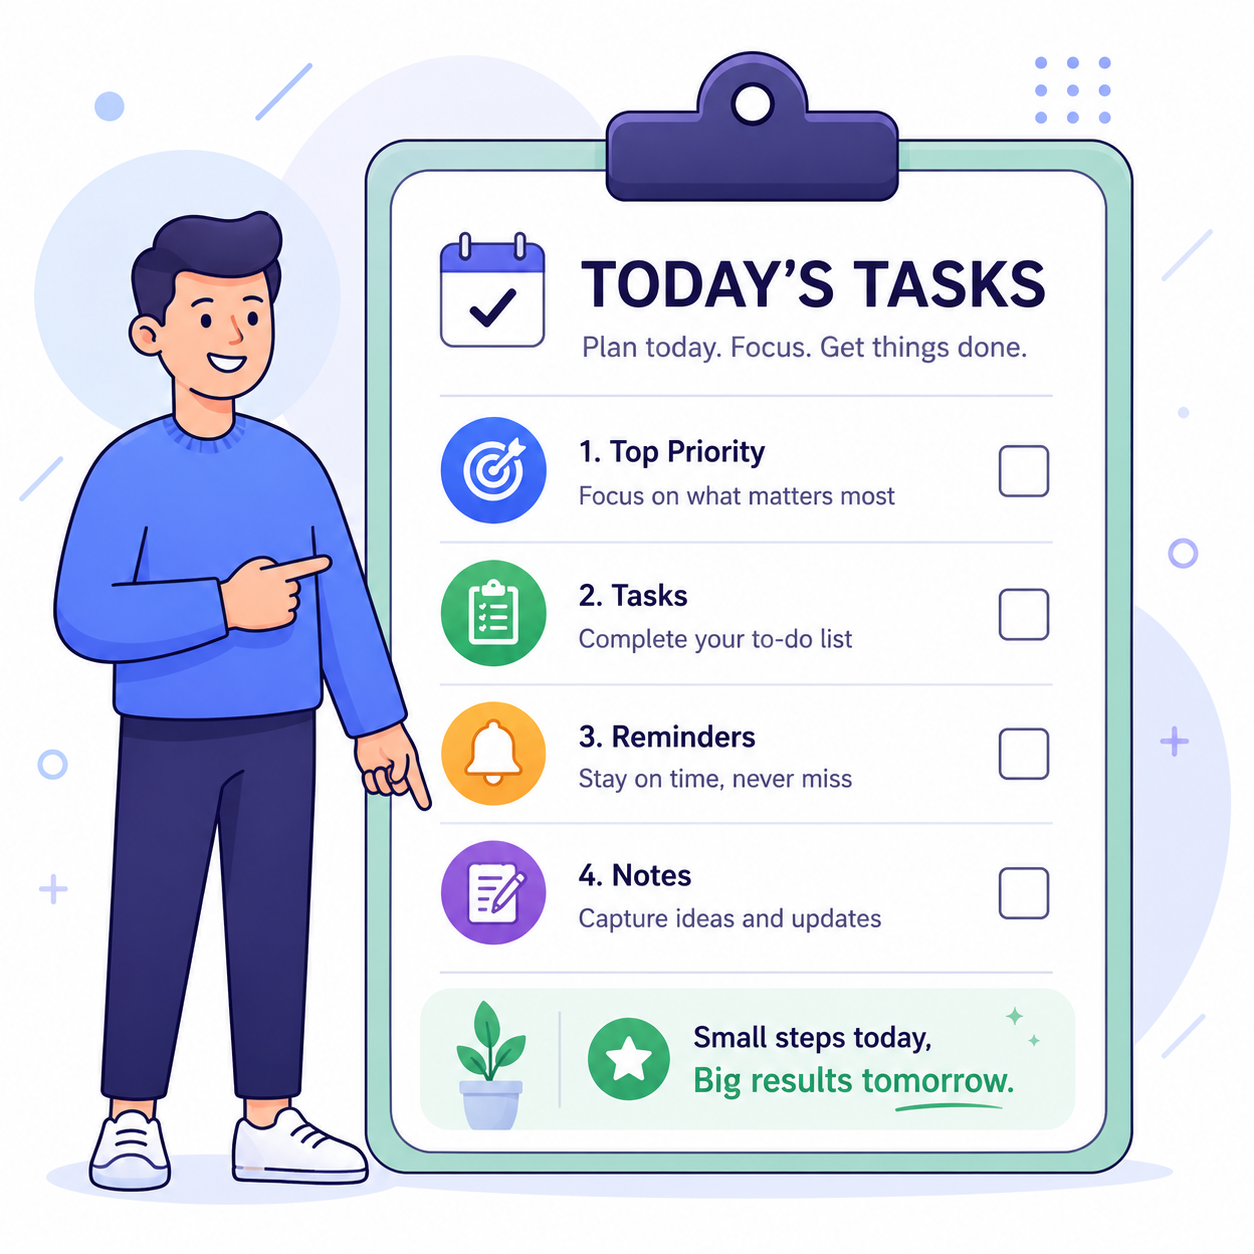
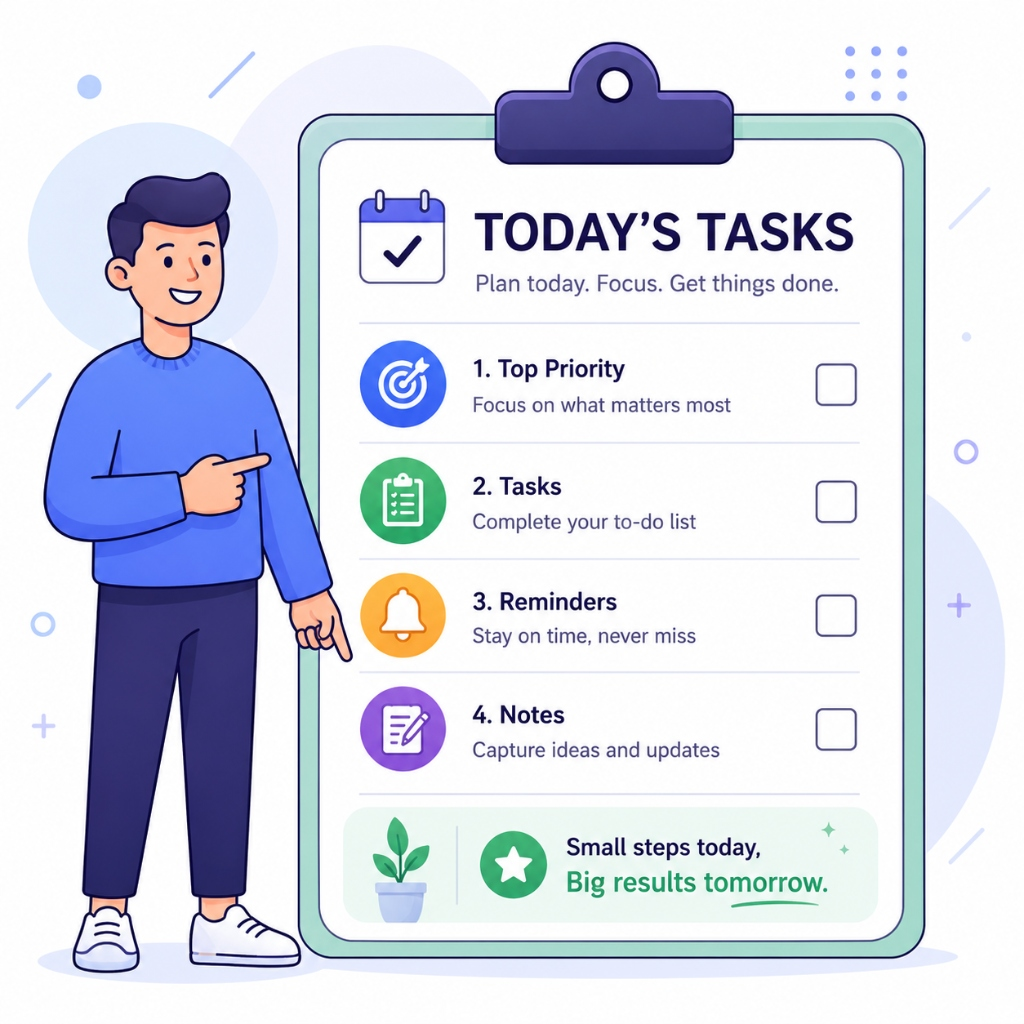
updated home screen hero size that looking better ui

Changed region(s): [[0.375, 0.3438, 0.4062, 0.4062]]

diff --git a/src/services/storage.js b/src/services/storage.js
@@ -24,194 +24,10 @@ const HABITS_KEY = '@daybook_habits';
 const DIARY_KEY = '@daybook_diary';
 const USER_KEY = '@daybook_user';
 
-export const initialTasks = [
-  {
-    id: 't1',
-    title: 'Complete UI Design',
-    category: 'Work',
-    priority: 'High',
-    time: '10:00 AM',
-    notes: 'Finish high-fidelity dark & light mode screens for Daybook app.',
-    completed: false,
-    date: getTodayStr(),
-  },
-  {
-    id: 't2',
-    title: 'Client Meeting at 11 AM',
-    category: 'Work',
-    priority: 'Medium',
-    time: '11:00 AM',
-    notes: 'Discuss project milestones and deliverables.',
-    completed: false,
-    date: getTodayStr(),
-  },
-  {
-    id: 't3',
-    title: 'Finish GST Filing',
-    category: 'Finance',
-    priority: 'High',
-    time: '02:00 PM',
-    notes: 'Verify invoices before submission.',
-    completed: false,
-    date: getTodayStr(),
-  },
-  {
-    id: 't4',
-    title: 'Pay Electricity Bill',
-    category: 'Finance',
-    priority: 'High',
-    time: '05:00 PM',
-    notes: 'Due date is today.',
-    completed: false,
-    date: getTodayStr(),
-  },
-  {
-    id: 't5',
-    title: 'Drink Water',
-    category: 'Health',
-    priority: 'Low',
-    time: '07:00 AM',
-    notes: 'Daily habit goal: 3 liters',
-    completed: true,
-    date: getTodayStr(),
-  },
-  {
-    id: 't6',
-    title: 'Gym Workout',
-    category: 'Health',
-    priority: 'Low',
-    time: '06:00 PM',
-    notes: 'Leg day routine & 20 min cardio',
-    completed: true,
-    date: getTodayStr(),
-  },
-  {
-    id: 't7',
-    title: 'Read Book',
-    category: 'Personal',
-    priority: 'Low',
-    time: '08:00 PM',
-    notes: 'Atomic Habits - Chapter 4',
-    completed: true,
-    date: getTodayStr(),
-  },
-];
-
-export const initialReminders = [
-  {
-    id: 'r1',
-    title: 'Doctor Appointment',
-    importance: 'Regular health checkup and routine blood work.',
-    notes: "Don't forget to bring previous medical reports.",
-    date: getTodayStr(),
-    time: '10:00 AM',
-    alarmTone: 'Default',
-    repeat: 'Does not repeat',
-    priority: 'High',
-    notification: true,
-    category: 'Health',
-  },
-  {
-    id: 'r2',
-    title: 'Finish Project Report',
-    importance: 'End of month client presentation.',
-    notes: 'Include Q3 productivity metrics and budget forecasting.',
-    date: getTodayStr(),
-    time: '04:00 PM',
-    alarmTone: 'Chime',
-    repeat: 'Weekly',
-    priority: 'High',
-    notification: true,
-    category: 'Work',
-  },
-  {
-    id: 'r3',
-    title: 'Birthday - Rahul',
-    importance: " Rahul's 25th Birthday Celebration!",
-    notes: 'Buy gift card and call at 12 AM.',
-    date: getTodayStr(),
-    time: '12:00 AM',
-    alarmTone: 'Gentle',
-    repeat: 'Yearly',
-    priority: 'Critical',
-    notification: true,
-    category: 'Personal',
-  },
-];
-
-export const initialHabits = [
-  {
-    id: 'h1',
-    title: 'Drink Water',
-    frequency: 'Daily',
-    progress: 100,
-    streak: 12,
-    completedToday: true,
-    autoAddToday: true,
-    icon: 'droplet',
-  },
-  {
-    id: 'h2',
-    title: 'Gym Workout',
-    frequency: '5 Times a Week',
-    progress: 70,
-    streak: 8,
-    completedToday: true,
-    autoAddToday: true,
-    icon: 'dumbbell',
-  },
-  {
-    id: 'h3',
-    title: 'Reading',
-    frequency: 'Daily',
-    progress: 80,
-    streak: 15,
-    completedToday: false,
-    autoAddToday: true,
-    icon: 'book',
-  },
-  {
-    id: 'h4',
-    title: 'Meditation',
-    frequency: 'Daily',
-    progress: 60,
-    streak: 5,
-    completedToday: false,
-    autoAddToday: true,
-    icon: 'sparkles',
-  },
-  {
-    id: 'h5',
-    title: 'No Sugar',
-    frequency: 'Daily',
-    progress: 40,
-    streak: 3,
-    completedToday: false,
-    autoAddToday: false,
-    icon: 'ban',
-  },
-];
-
-export const initialDiaryEntries = [
-  {
-    id: 'd1',
-    date: getTodayStr(),
-    formattedDate: getTodayFormatted(),
-    title: 'Productive Day & Milestone Reached',
-    mood: 'happy',
-    content:
-      'Today was a super productive day! Completed all key project design tasks on time. Went for a morning jog which gave me extra energy throughout the day. Grateful for good health and family support.',
-  },
-  {
-    id: 'd2',
-    date: getTodayStr(),
-    formattedDate: getTodayFormatted(),
-    title: 'Planning and System Architecture',
-    mood: 'calm',
-    content:
-      'Spent time organizing goals for the next month. Started reading Atomic Habits again. Consistency is key.',
-  },
-];
+export const initialTasks = [];
+export const initialReminders = [];
+export const initialHabits = [];
+export const initialDiaryEntries = [];
 
 export const initialUser = {
   name: 'Akhilesh',

diff --git a/src/screens/TodayScreen.js b/src/screens/TodayScreen.js
@@ -181,21 +181,23 @@ const styles = StyleSheet.create({
   },
   emptyContainer: {
     alignItems: 'center',
-    paddingVertical: 30,
+    paddingVertical: 20,
+    paddingHorizontal: 20,
   },
   emptyIllustration: {
-    width: 80,
-    height: 80,
-    marginBottom: 12,
-    opacity: 0.6,
+    width: 260,
+    height: 260,
+    marginBottom: 16,
   },
   emptyText: {
-    fontSize: 16,
-    fontWeight: '600',
+    fontSize: 18,
+    fontWeight: '800',
+    textAlign: 'center',
   },
   emptySubtext: {
     fontSize: 13,
-    marginTop: 4,
+    marginTop: 6,
+    textAlign: 'center',
   },
   completedSection: {
     marginTop: 12,
